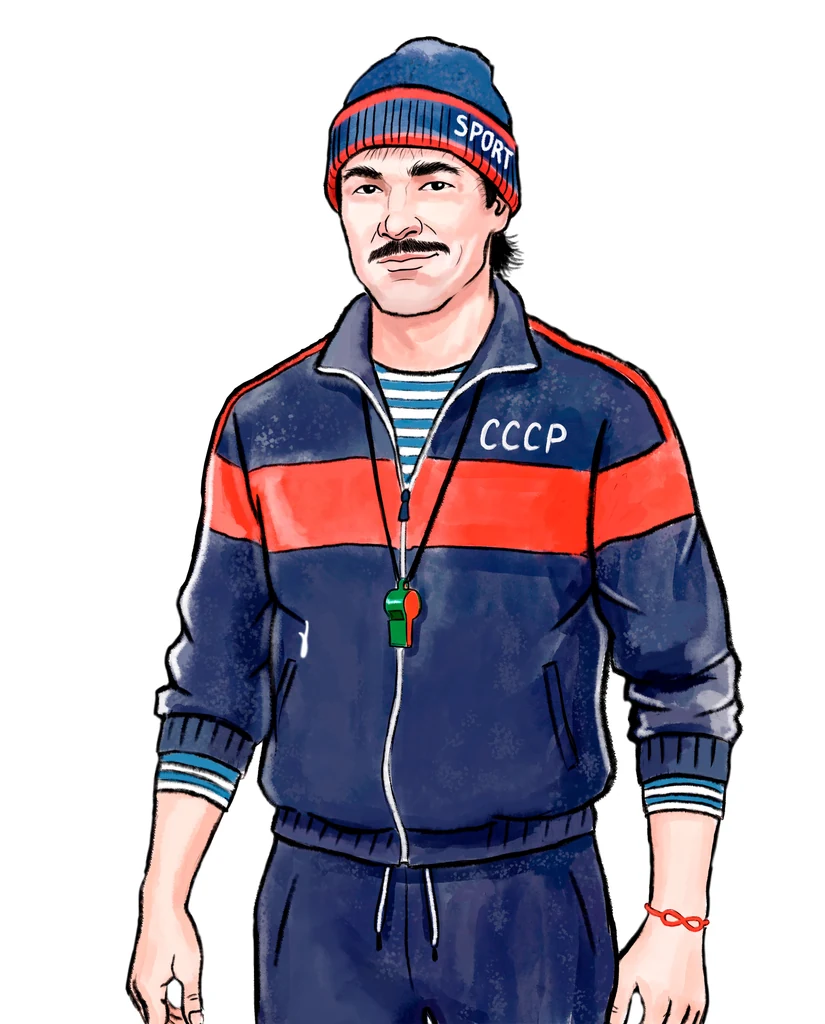
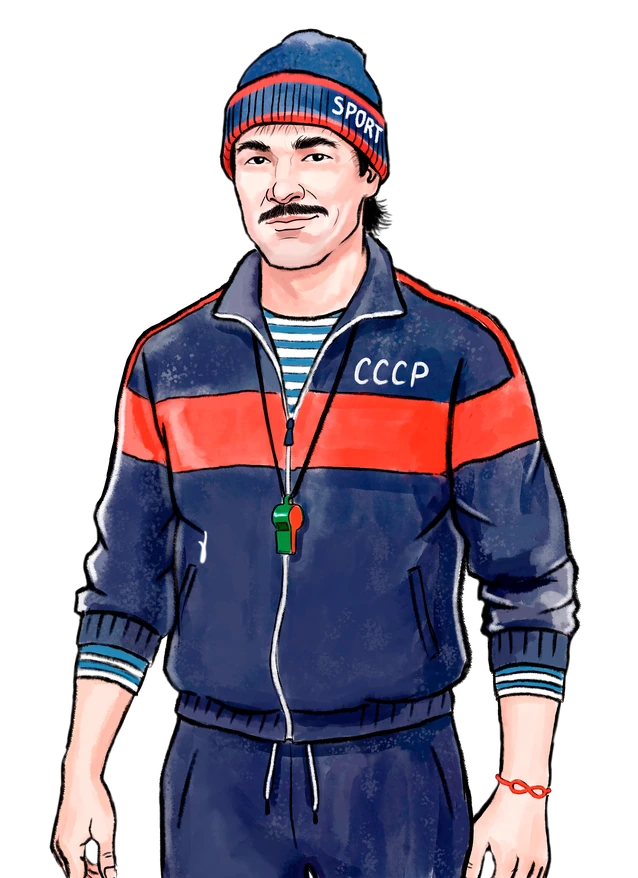
Исправить портрет Nobody и вёрстку досье и обучения

Changed region(s): [[0.0596, 0.0308, 0.9232, 1.0]]

diff --git a/frontend/src/pages/character/tutorial.css b/frontend/src/pages/character/tutorial.css
@@ -1,4 +1,4 @@
-.tutorial { box-sizing: border-box; width: min(560px, calc(100% - 24px)); max-height: calc(100% - 24px); padding: clamp(16px, 5vw, 28px); color: var(--text); background: var(--paper); border: 2px solid var(--ink-red); }
+.tutorial { position: fixed; inset: 0; margin: auto; box-sizing: border-box; width: min(560px, calc(100% - 24px)); height: max-content; max-height: calc(100% - 24px); overflow: auto; padding: clamp(16px, 5vw, 28px); color: var(--text); background: var(--paper); border: 2px solid var(--ink-red); }
 .tutorial::backdrop { background: rgb(15 10 8 / 78%); }
 .tutorial h1 { font-size: 1.55rem; margin: 0 0 12px; }
 .tutorial h2 { font-size: 1.2rem; margin: 8px 0; }

diff --git a/frontend/src/pages/profile/dossier-page.tsx b/frontend/src/pages/profile/dossier-page.tsx
@@ -332,7 +332,7 @@ export function DossierPage({ nickname }: { nickname?: string } = {}) {
 
   return (
     <Stage width={PROFILE_STAGE.w} height={PROFILE_STAGE.h}
-      fit="contain" backdrop={plate} className="stage--profile">
+      fit="contain" backdrop="linear-gradient(180deg, #725848, #382d2b 80%)" className="stage--profile">
       <div className="stage__plate" style={{ backgroundImage: plate }} />
 
       {/* поиск игрока — работает через /api/characters/by-nickname */}
